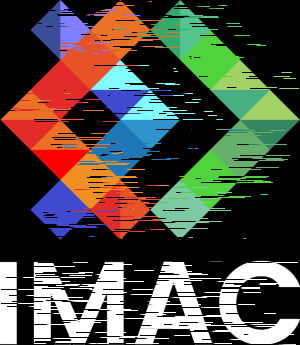
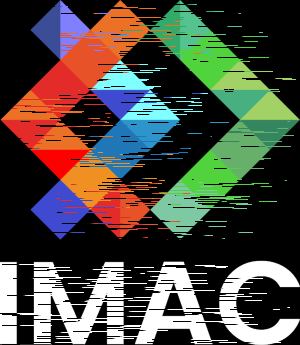
include algorithm pour que sort marche

diff --git a/src/function/diff_gaussien.cpp b/src/function/diff_gaussien.cpp
@@ -10,7 +10,7 @@ void diff_gaussien(sil::Image gaussien_leger, sil::Image gaussien_hard)
         for (int y{0}; y < gaussien_leger.height(); y++)
         {
             glm::vec3 pixel(final.pixel(x, y));
-            float tau{0.55};
+            float tau{10};
             final.pixel(x, y) = (1 + tau) * gaussien_leger.pixel(x, y) - tau * gaussien_hard.pixel(x, y);
 
             if (((final.pixel(x, y).r + final.pixel(x, y).g + final.pixel(x, y).b) / 3) >= 0.5f)

diff --git a/src/headers.hpp b/src/headers.hpp
@@ -28,5 +28,7 @@ void outline(sil::Image image);
 void sharpen(sil::Image image);
 void gaussiens(sil::Image image);
 void diff_gaussien(sil::Image image, sil::Image image2);
-void convolution(sil::Image image);
 void tri(sil::Image image);
+void kuwahara(sil::Image image);
+
+

diff --git a/src/function/tri.cpp b/src/function/tri.cpp
@@ -1,6 +1,7 @@
 #include <sil/sil.hpp>
 #include <iostream>
 #include "../../lib/random.hpp"
+#include <algorithm>
 
 float brightness(glm::vec3 color)
 {

diff --git a/src/main.cpp b/src/main.cpp
@@ -38,4 +38,5 @@ int main()
     // gaussiens(photo);
     // diff_gaussien(flou_faible, flou_fort);
     tri(logo);
+    // kuwahara(photo);
 }
